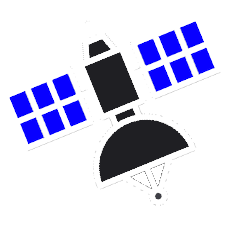
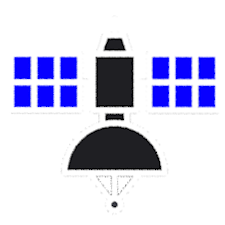
First draft of power beaming link calculator has been completed.

Changed region(s): [[0.0311, 0.0933, 0.9644, 0.9333]]

diff --git a/blog/power-beaming-link-calculator/page.js b/blog/power-beaming-link-calculator/page.js
@@ -3,6 +3,8 @@
 const WIDTH = 600;
 const HEIGHT = 800;
 
+const PI = 3.1415926;
+
 const canvas = document.getElementById("canvas");
 const app = new PIXI.Application({
     width: WIDTH, height: HEIGHT,
@@ -46,11 +48,14 @@ class Display {
         this.imgs.sun.height = 140;
         content.addChild(this.imgs.sun);
 
+        this.sat_min_size = 50;
+        this.sat_max_size = 250;
         this.imgs.sat = new PIXI.Sprite(PIXI.Texture.from("images/sat.png"));
         this.imgs.sat.anchor.set(0.5);
-        this.imgs.sat.position.set(100,120);
-        this.imgs.sat.width = 200;
-        this.imgs.sat.height = 200;
+        this.imgs.sat.position.set(112,120);
+        this.imgs.sat.width = this.sat_max_size;
+        this.imgs.sat.height = this.sat_max_size;
+        this.imgs.sat.rotation = -0.6;
         content.addChild(this.imgs.sat);
 
         this.imgs.earth = new PIXI.Sprite(PIXI.Texture.from("images/earth.png"));
@@ -60,14 +65,30 @@ class Display {
         this.imgs.earth.height = 100;
         content.addChild(this.imgs.earth);
 
-        // TODO: add receiver img.
-        // TODO: add lines for transmission waveform:
-        //         -> Increasing frequency brings lines closer together.
-        //         -> Increasing power makes lines darker/larger.
-        // TODO: how is "d" reflected in the imagery?
-        // TODO: how is "L_atm" reflected in the imagery?
-
-        // TODO: make sizes of transmitter and receiver scale with A_t and A_r, respectively.
+        this.rec_min_size = 50;
+        this.rec_max_size = 200;
+        this.imgs.rec = new PIXI.Sprite(PIXI.Texture.from("images/rec.png"));
+        this.imgs.rec.anchor.set(0.5,1);
+        this.imgs.rec.position.set(WIDTH*3/4,HEIGHT-50);
+        this.imgs.rec.width = this.rec_max_size;
+        this.imgs.rec.height = this.rec_max_size;
+        content.addChild(this.imgs.rec);
+        
+        this.imgs.cloud = new PIXI.Sprite(PIXI.Texture.from("images/cloud.png"));
+        this.imgs.cloud.anchor.set(0.5);
+        this.imgs.cloud.position.set(WIDTH*3/4-50,HEIGHT-280);
+        this.imgs.cloud.width = 300;
+        this.imgs.cloud.height = 150;
+        this.imgs.cloud.alpha = 1;
+        content.addChild(this.imgs.cloud);
+        
+        this.imgs.cloud2 = new PIXI.Sprite(PIXI.Texture.from("images/cloud.png"));
+        this.imgs.cloud2.anchor.set(0.5);
+        this.imgs.cloud2.position.set(150,HEIGHT-140);
+        this.imgs.cloud2.width = 200;
+        this.imgs.cloud2.height = 100;
+        this.imgs.cloud2.alpha = 1;
+        content.addChild(this.imgs.cloud2);
         
         // this.texts.a = new PIXI.Text("a", {
         //     fontFamily: "Verdana", fontSize: 36, fill: 0xffffff, align: "center",
@@ -108,19 +129,42 @@ class Display {
 
         this.lambda = this.c / this.f;
 
-        let tmp = this.A_t * this.A_r / (Sqr(this.lambda) * Sqr(this.d));
+        let tmp = Pow(10, (10*Log10(this.A_t * this.A_r / (Sqr(this.lambda) * Sqr(this.d))) - this.L_atm)/10);
         let tau = Sqrt(tmp);
         let P_r_peak = this.P_t_peak * tmp;
-        let P_r_peak_dB = 10*Log10(P_r_peak);
+        let P_r_peak_dBW = 10*Log10(P_r_peak);
         let P_r_avg = this.P_t_avg * tmp;
-        let P_r_avg_dB = 10*Log10(P_r_avg);
+        let P_r_avg_dBW = 10*Log10(P_r_avg);
         
         out_P_r_peak.value = math.format(P_r_peak, {precision:3});
-        out_P_r_peak_dB.value = math.format(P_r_peak_dB, {precision:3});
+        out_P_r_peak_dBW.value = math.format(P_r_peak_dBW, {precision:3});
+        out_P_r_peak_dBm.value = math.format(P_r_peak_dBW + 30, {precision:3});
         out_P_r_avg.value = math.format(P_r_avg, {precision:3});
-        out_P_r_avg_dB.value = math.format(P_r_avg_dB, {precision:3});
+        out_P_r_avg_dBW.value = math.format(P_r_avg_dBW, {precision:3});
+        out_P_r_avg_dBm.value = math.format(P_r_avg_dBW + 30, {precision:3});
         out_tau.value = math.format(tau, {precision:3});
         out_eta.value = math.format(1-Exp(-Sqr(tau)), {precision:3});
+
+        // Calculate factors for sizing objects.
+        let maxf = 10*Log10(35e9);
+        let minf = 10*Log10(1e6);
+        this.freq_factor = Clamp(1 - (10*Log10(this.f) - minf) / (maxf - minf), 0, 1);
+
+        let maxP = 10*Log10(1e9);
+        let minP = 10*Log10(10);
+        this.P_factor = Clamp((10*Log10(this.P_t_avg) - minP) / (maxP - minP), 0, 1);
+
+        let maxAt = 10*Log10(1e6);
+        let minAt = 10*Log10(1);
+        this.At_factor = Clamp((10*Log10(this.A_t) - minAt) / (maxAt - minAt), 0,  1);
+        
+        let maxAr = 10*Log10(1e7);
+        let minAr = 10*Log10(1);
+        this.Ar_factor = Clamp((10*Log10(this.A_r) - minAr) / (maxAr - minAr), 0,  1);
+
+        let maxL = 10;
+        let minL = 0;
+        this.L_factor = Clamp((this.L_atm - minL) / (maxL - minL), 0.01, 1);
     }
 
     Destroy() {
@@ -139,6 +183,35 @@ class Display {
         graphics.beginFill(0x000000);
         graphics.drawRect(0, 0, WIDTH, HEIGHT);
         graphics.endFill();
+
+        // Radiation lines.
+        let thicks = [14, 18, 30]; // These are MAX widths.
+        let rads = [20, 45, 80]; // These are MIN rads.
+        let thickfactor = this.P_factor;
+        let radfactor = 0.8 + 2 * this.freq_factor;
+        for (let i = 0; i < 3; i++) {
+            graphics.lineStyle({width:1 + thicks[i] * thickfactor, color:0x28dead, cap:"round"});
+            graphics.arc(170, 200, rads[i] * radfactor, 0.6, 1.4);
+            graphics.endFill();
+        }
+
+        graphics.lineStyle(2, 0x215bb8, 0.4);
+        graphics.beginFill(0x4287f5, 0.15);
+        graphics.arc(WIDTH/2, HEIGHT*1.8, HEIGHT*5/4, 0, 2*PI);
+        graphics.endFill();
+
+        // Resize existing images.
+        let tmp = this.sat_min_size + this.At_factor * (this.sat_max_size - this.sat_min_size)
+        this.imgs.sat.width = tmp;
+        this.imgs.sat.height = tmp;
+
+        tmp = this.rec_min_size + this.Ar_factor * (this.rec_max_size - this.rec_min_size);
+        this.imgs.rec.width = tmp;
+        this.imgs.rec.height = tmp;
+
+        // Adjust alpha of clouds
+        this.imgs.cloud.alpha = this.L_factor;
+        this.imgs.cloud2.alpha = this.L_factor;
     }
 }
 
@@ -173,6 +246,12 @@ function Fourth(v) { return Math.pow(v,4); }
 function Exp(v) { return Math.exp(v); }
 function Log10(v) { return Math.log10(v); }
 function Pow(b,e) { return Math.pow(b, e); }
+
+function Clamp(v, min, max) {
+    if (v < min) { return min; }
+    if (v > max) { return max; }
+    return v;
+}
 
 function ToWatts(v, s) {
     let tmp = parseFloat(v);
@@ -246,9 +325,11 @@ for (const dim of [dim_f, dim_A_t, dim_P_t_peak, dim_P_t_avg, dim_d, dim_L_atm, 
 
 // Register the output boxes.
 const out_P_r_peak = document.getElementById("out-P_r_peak");
-const out_P_r_peak_dB = document.getElementById("out-P_r_peak_dB");
+const out_P_r_peak_dBW = document.getElementById("out-P_r_peak_dBW");
+const out_P_r_peak_dBm = document.getElementById("out-P_r_peak_dBm");
 const out_P_r_avg = document.getElementById("out-P_r_avg");
-const out_P_r_avg_dB = document.getElementById("out-P_r_avg_dB");
+const out_P_r_avg_dBW = document.getElementById("out-P_r_avg_dBW");
+const out_P_r_avg_dBm = document.getElementById("out-P_r_avg_dBm");
 const out_tau = document.getElementById("out-tau");
 const out_eta = document.getElementById("out-eta");
 

diff --git a/blog/power-beaming-link-calculator/page.html b/blog/power-beaming-link-calculator/page.html
@@ -90,13 +90,17 @@
     P<sub>r,peak</sub> (Receiver Power Peak) = 
     <input type="text" id="out-P_r_peak" value="0" readonly>
     W =
-    <input type="text" id="out-P_r_peak_dB" value="0" readonly>
+    <input type="text" id="out-P_r_peak_dBW" value="0" readonly>
+    dBW = 
+    <input type="text" id="out-P_r_peak_dBm" value="0" readonly>
     dBm
     <br><br>
     P<sub>r,avg</sub> (Receiver Power Average) = 
     <input type="text" id="out-P_r_avg" value="0" readonly>
     W =
-    <input type="text" id="out-P_r_avg_dB" value="0" readonly>
+    <input type="text" id="out-P_r_avg_dBW" value="0" readonly>
+    dBW = 
+    <input type="text" id="out-P_r_avg_dBm" value="0" readonly>
     dBm
     <br><br>
     &tau; = 
@@ -117,6 +121,12 @@
     <br><br>
     -->
     <br><br>
+    </p>
+    <h2>Notes:</h2>
+    <p>
+    Numbers can be entered in engineering notation. For example, if you want your power level to be 1000 W, you can enter 1e3 W.
+    <br><br>
+    Atmospheric losses does not consider wavelength, you will have to enter an accurate value for atmospheric loss, depending on frequency.
     </p>
     
     <div class="spacer-120"></div>
